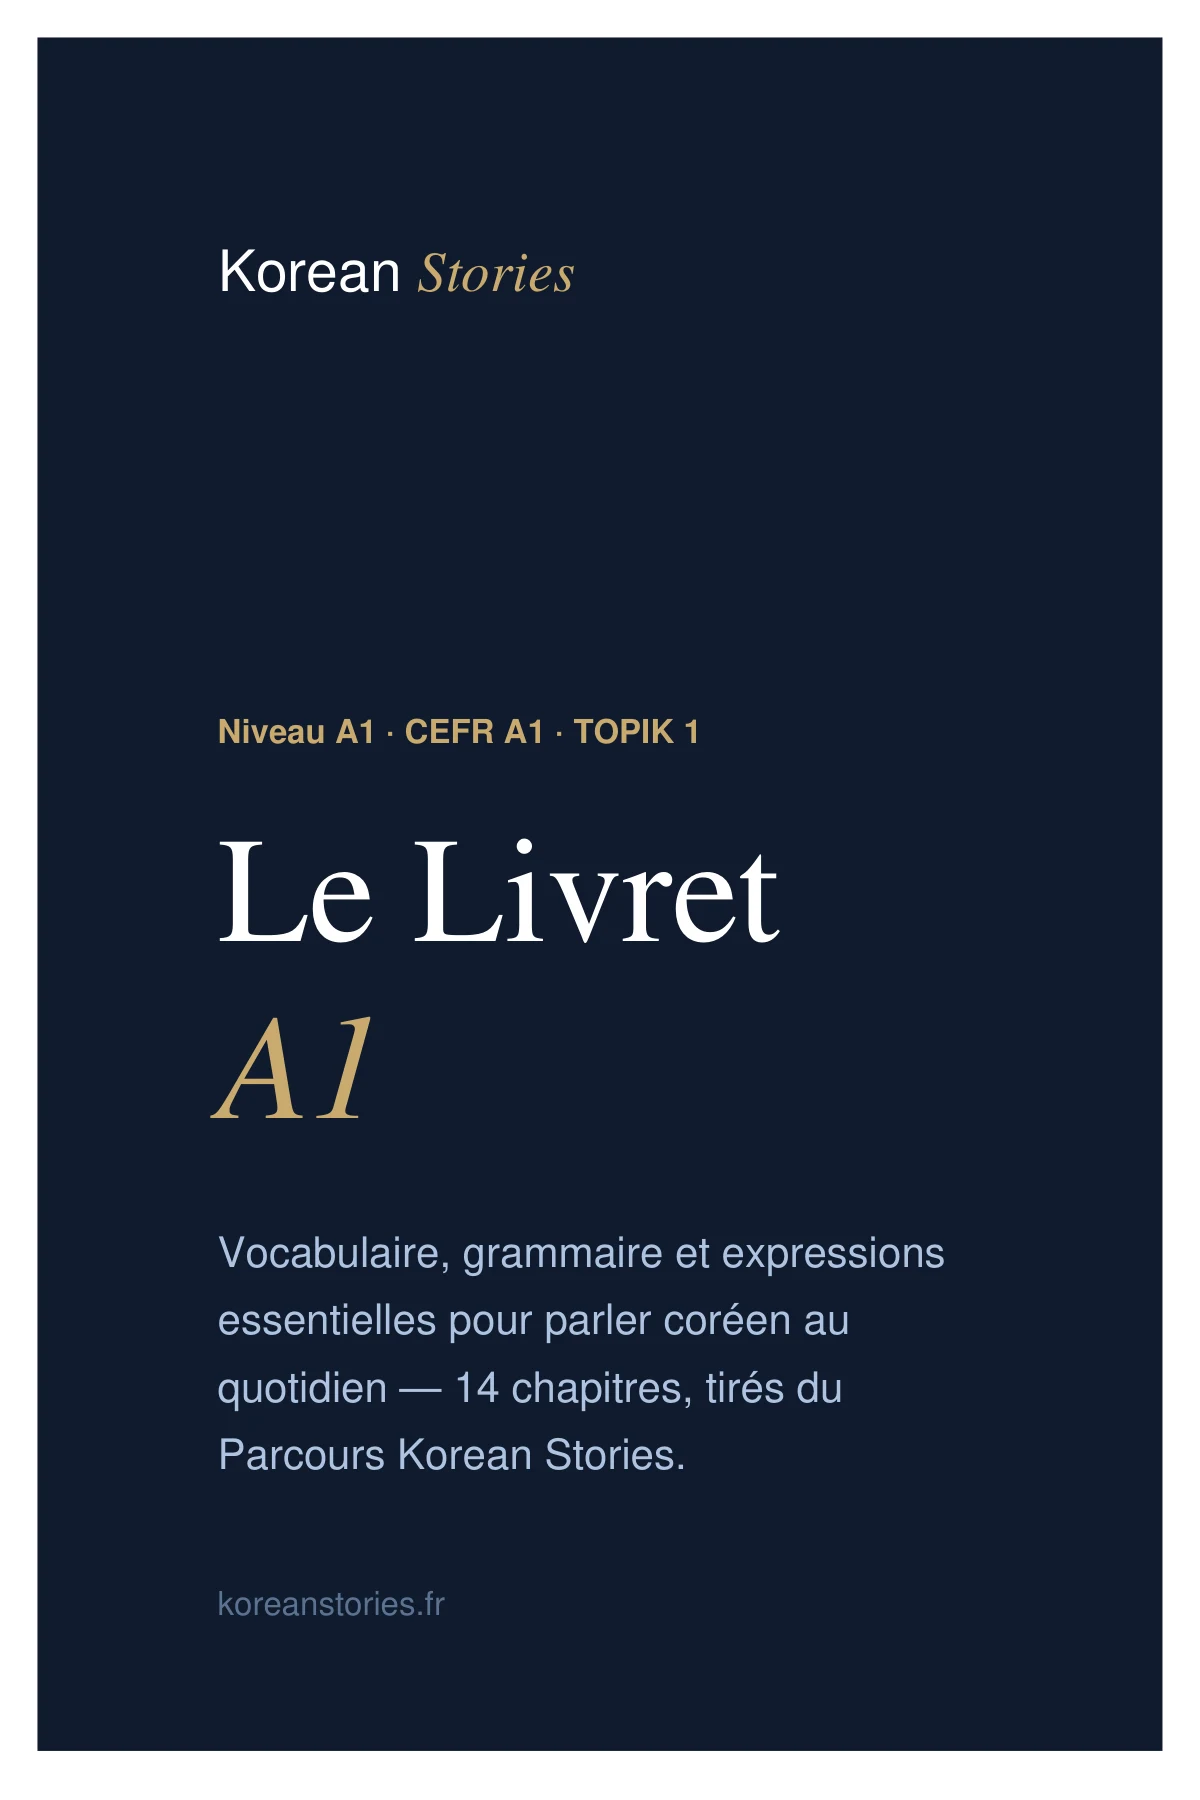
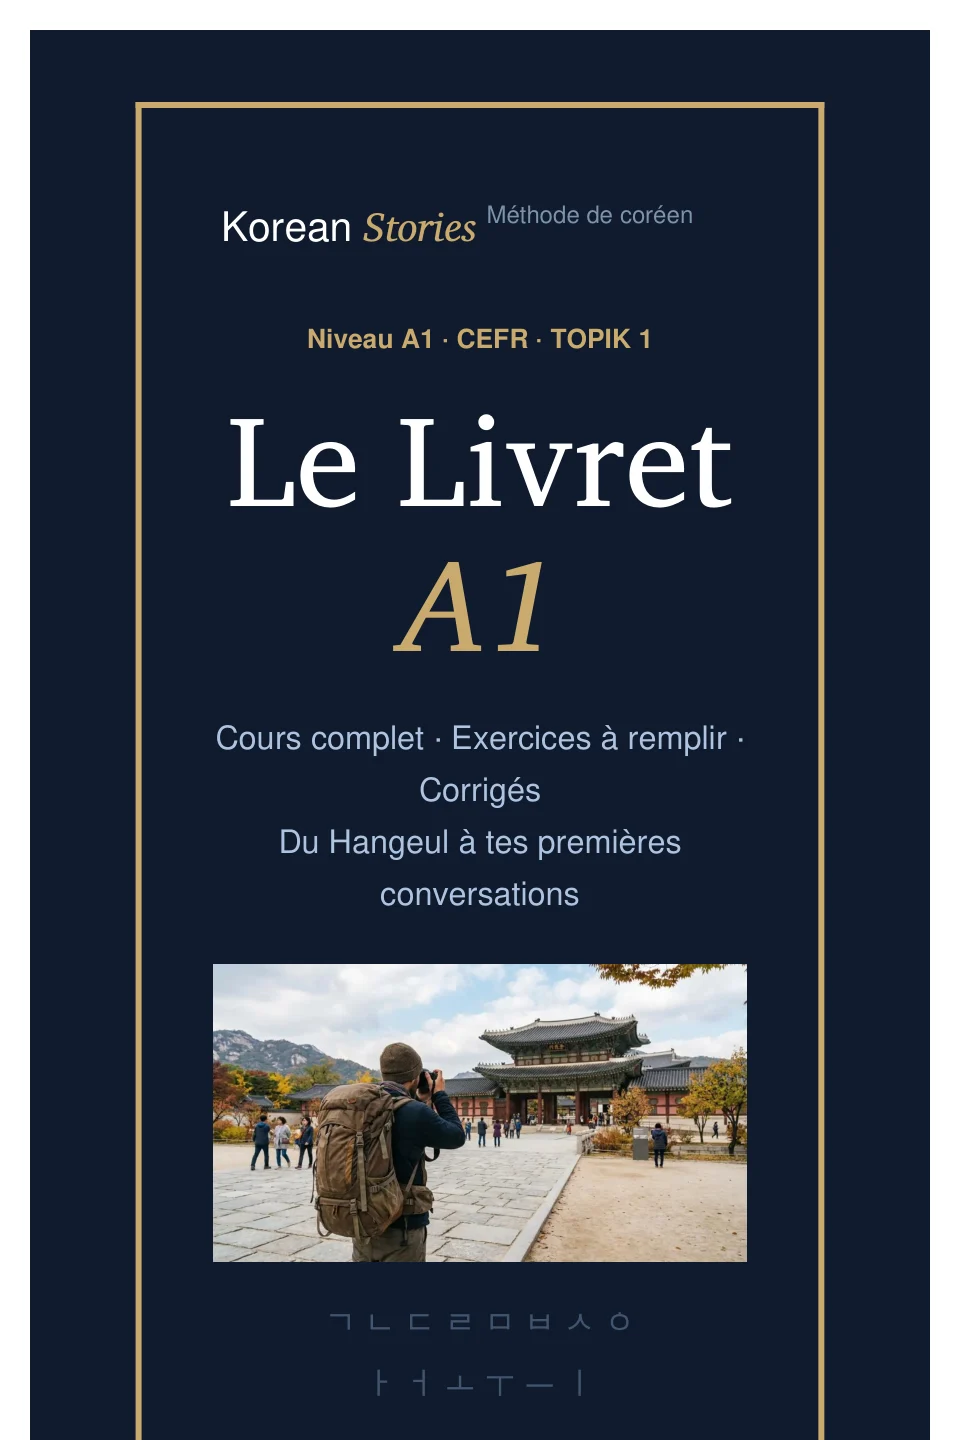
Livret A1 v2 : manuel complet de 244 pages en 12 chapitres
Refonte totale du PDF (78 → 244 pages) en vrai manuel de cours :
couverture premium, sommaire paginé, chapitre Hangeul complet (histoire
Sejong, ordre des traits, grilles d'écriture à repasser), 12 chapitres
suivant le Parcours A1 du site (leçons + 44 exercices à remplir : QCM,
relier, traduire, recopier, photo-quiz), corrigés, glossaire de 234
mots, index, crédits, carte de la Corée dessinée maison, QR code vers
hangeul.html. Tout le coréen extrait programmatiquement des leçons/
exercices déjà publiés et vérifiés — zéro retapage, zéro plagiat.

Site : livret-a1.html/cours.html/premium.html mis à jour (244 pages,
12 chapitres) + nouvelle image de couverture.

diff --git a/livret-a1.html b/livret-a1.html
@@ -6,19 +6,19 @@
 <meta charset="UTF-8">
 <meta name="viewport" content="width=device-width,initial-scale=1">
 <title>Le Livret A1 — Korean Stories</title>
-<meta name="description" content="Le Livret A1 : 78 pages de vocabulaire, grammaire et expressions coréennes essentielles, en PDF téléchargeable. Gratuit pour les Premium, 5€ à l'unité.">
+<meta name="description" content="Le Livret A1 : manuel complet de 244 pages — cours, exercices à remplir, corrigés, glossaire. Du Hangeul à tes premières conversations. Gratuit pour les Premium, 5€ à l'unité.">
 <link rel="canonical" href="https://koreanstories.fr/livret-a1.html">
 <meta property="og:type" content="website">
 <meta property="og:locale" content="fr_FR">
 <meta property="og:site_name" content="Korean Stories">
 <meta property="og:title" content="Le Livret A1 — Korean Stories">
-<meta property="og:description" content="78 pages de vocabulaire, grammaire et expressions coréennes essentielles, en PDF téléchargeable.">
+<meta property="og:description" content="Manuel complet de 244 pages : cours, exercices à remplir, corrigés, glossaire — du Hangeul à tes premières conversations.">
 <meta property="og:url" content="https://koreanstories.fr/livret-a1.html">
 <meta property="og:image" content="https://koreanstories.fr/img/livret-a1-cover.webp">
 <meta property="og:image:alt" content="Couverture du Livret A1 Korean Stories">
 <meta name="twitter:card" content="summary_large_image">
 <meta name="twitter:title" content="Le Livret A1 — Korean Stories">
-<meta name="twitter:description" content="78 pages de vocabulaire, grammaire et expressions coréennes essentielles, en PDF téléchargeable.">
+<meta name="twitter:description" content="Manuel complet de 244 pages : cours, exercices à remplir, corrigés, glossaire — du Hangeul à tes premières conversations.">
 <meta name="twitter:image" content="https://koreanstories.fr/img/livret-a1-cover.webp">
 <link rel="stylesheet" href="design.css">
 <link rel="preload" href="fonts/ks-fonts.css" as="style" onload="this.onload=null;this.rel='stylesheet'"/><noscript><link rel="stylesheet" href="fonts/ks-fonts.css"/></noscript>
@@ -128,9 +128,9 @@
     <span class="lv-pill"><span class="dot"></span> Niveau A1 · CEFR A1 · TOPIK 1</span>
     <img class="lv-cover" src="img/livret-a1-cover.webp" width="132" height="198" alt="Couverture du Livret A1 Korean Stories" loading="eager">
     <h1>Le Livret <em>A1</em></h1>
-    <p>78 pages de vocabulaire, grammaire et expressions coréennes essentielles, en PDF téléchargeable — tiré du Parcours Korean Stories.</p>
+    <p>Un vrai manuel de 244 pages : cours complet, exercices à remplir directement dans le livret, corrigés, glossaire et index — du Hangeul à tes premières conversations.</p>
     <div class="lv-meta">
-      <span>14 chapitres</span>
+      <span>12 chapitres · 44 exercices corrigés</span>
       <span>·</span>
       <span>Aucun plagiat — 100% contenu Korean Stories</span>
     </div>
@@ -154,21 +154,20 @@
     <div class="lv-toc">
       <p class="lv-sec-lbl">Ce que contient le livret</p>
       <div class="lv-toc-grid">
-        <div class="lv-toc-item"><b>01</b><span>Voyelles &amp; consonnes</span></div>
-        <div class="lv-toc-item"><b>02</b><span>Syllabes &amp; batchim</span></div>
-        <div class="lv-toc-item"><b>03</b><span>Salutations de base</span></div>
-        <div class="lv-toc-item"><b>04</b><span>Se présenter</span></div>
-        <div class="lv-toc-item"><b>05</b><span>Ordre des mots &amp; politesse</span></div>
-        <div class="lv-toc-item"><b>06</b><span>Les particules</span></div>
-        <div class="lv-toc-item"><b>07</b><span>Négation &amp; questions</span></div>
-        <div class="lv-toc-item"><b>08</b><span>Conjuguer les verbes</span></div>
-        <div class="lv-toc-item"><b>09</b><span>La famille</span></div>
-        <div class="lv-toc-item"><b>10</b><span>Chiffres, heure &amp; temps</span></div>
-        <div class="lv-toc-item"><b>11</b><span>Manger en Corée</span></div>
-        <div class="lv-toc-item"><b>12</b><span>Corps, santé &amp; émotions</span></div>
-        <div class="lv-toc-item"><b>13</b><span>Se déplacer &amp; se repérer</span></div>
-        <div class="lv-toc-item"><b>14</b><span>Décrire, shopping &amp; couleurs</span></div>
+        <div class="lv-toc-item"><b>01</b><span>Le Hangeul (histoire, écriture, entraînement)</span></div>
+        <div class="lv-toc-item"><b>02</b><span>Premiers mots, premières phrases</span></div>
+        <div class="lv-toc-item"><b>03</b><span>Les particules</span></div>
+        <div class="lv-toc-item"><b>04</b><span>La phrase en action</span></div>
+        <div class="lv-toc-item"><b>05</b><span>Les verbes &amp; la conjugaison</span></div>
+        <div class="lv-toc-item"><b>06</b><span>Compter en coréen</span></div>
+        <div class="lv-toc-item"><b>07</b><span>Le temps qui passe</span></div>
+        <div class="lv-toc-item"><b>08</b><span>Décrire le monde</span></div>
+        <div class="lv-toc-item"><b>09</b><span>Moi &amp; les autres</span></div>
+        <div class="lv-toc-item"><b>10</b><span>Chez moi, dans ma ville</span></div>
+        <div class="lv-toc-item"><b>11</b><span>Sortir à Séoul</span></div>
+        <div class="lv-toc-item"><b>12</b><span>Le kit de survie + grand bilan A1</span></div>
       </div>
+      <p style="font-size:.8rem;color:var(--t3);text-align:center;margin-top:12px">+ les corrigés de tous les exercices, un glossaire de 230 mots, un index et la carte de la Corée.</p>
     </div>
 
     <!-- PERKS -->

diff --git a/cours.html b/cours.html
@@ -1106,7 +1106,7 @@ const LEVELS=[
    ms:{em:'a1',title:'A1 Débutant validé !',sub:'67 activités · 845 XP · Hangeul · Salutations · Chiffres · Famille · Corps · Émotions · Lieux · Verbes · Verbes irréguliers · Heure · Météo · Vêtements · Particules · Certifié TOPIK 1',c:'#2563EB',bg:'rgba(37,99,235,.06)',ring:'rgba(37,99,235,.12)',border:'rgba(37,99,235,.35)'},
    sc:{title:'Toutes les histoires A1',sub:'5 histoires immersives · Dialogues natifs · Traduction ligne à ligne',href:'histoires.html',c:'#4F46E5',bg:'rgba(79,70,229,.07)',svg:`<path d="M2 3h6a4 4 0 014 4v14a3 3 0 00-3-3H2z"/><path d="M22 3h-6a4 4 0 00-4 4v14a3 3 0 013-3h7z"/>`},
    pdfs:[
-     {title:'📘 Le Livret A1 complet',     sub:'78 pages · 14 chapitres · Gratuit en Premium, 5€ à l\'unité',pages:78,color:'#B8924E',href:'livret-a1.html'},
+     {title:'📘 Le Livret A1 complet',     sub:'244 pages · 12 chapitres · exercices corrigés · Gratuit en Premium, 5€ à l\'unité',pages:244,color:'#B8924E',href:'livret-a1.html'},
      {title:'Vocabulaire A1 Complet',     sub:'200 mots incontournables avec exemples',pages:10,color:'#2563EB',href:'pdf/vocab-a1.html'},
      {title:'Grammaire A1 — Fiches mémo', sub:'SOV · Particules · Conjugaison · Négation · Questions',pages:8,color:'#4F46E5',href:'pdf/grammaire-a1.html'},
      {title:'Particules coréennes A1',    sub:'이/가 · 은/는 · 을/를 · 에 · 에서 · 로 — guide complet',pages:4,color:'#16A34A',href:'pdf/particules-a2.html'},

diff --git a/premium.html b/premium.html
@@ -166,7 +166,7 @@
 
       <div class="perk">
         <div class="perk-tick"><svg viewBox="0 0 24 24"><path d="M14 2H6a2 2 0 00-2 2v16a2 2 0 002 2h12a2 2 0 002-2V8z"/><polyline points="14 2 14 8 20 8"/></svg></div>
-        <div class="perk-body"><div class="perk-title">Toutes les fiches PDF + le Livret A1</div><div class="perk-sub">Les récapitulatifs de chaque leçon, plus le <a href="livret-a1.html" style="color:#C9A96E;font-weight:600">Livret A1 complet</a> (78 pages) pour réviser hors-ligne.</div></div>
+        <div class="perk-body"><div class="perk-title">Toutes les fiches PDF + le Livret A1</div><div class="perk-sub">Les récapitulatifs de chaque leçon, plus le <a href="livret-a1.html" style="color:#C9A96E;font-weight:600">Livret A1 complet</a> (244 pages) pour réviser hors-ligne.</div></div>
       </div>
       <div class="perk">
         <div class="perk-tick"><svg viewBox="0 0 24 24"><circle cx="12" cy="8" r="6"/><path d="M8.56 2.75c4.37 6.03 6.02 9.42 8.03 17.72m2.54-15.38c-3.72 4.35-8.94 5.66-16.88 5.85m19.5 1.9c-3.5-.93-6.63-.82-8.94 0-2.58.92-5.01 2.86-7.44 6.32"/></svg></div>
